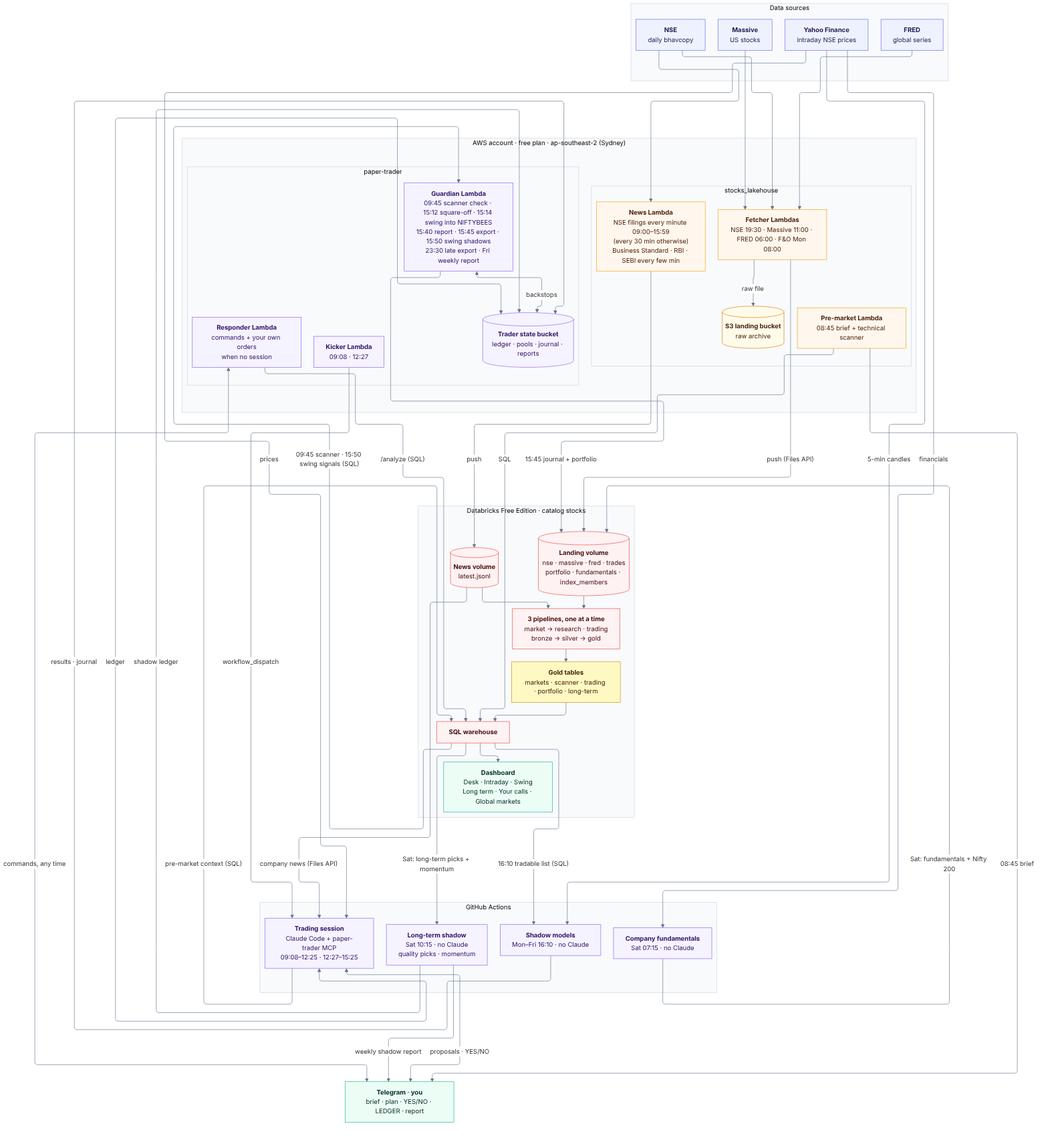
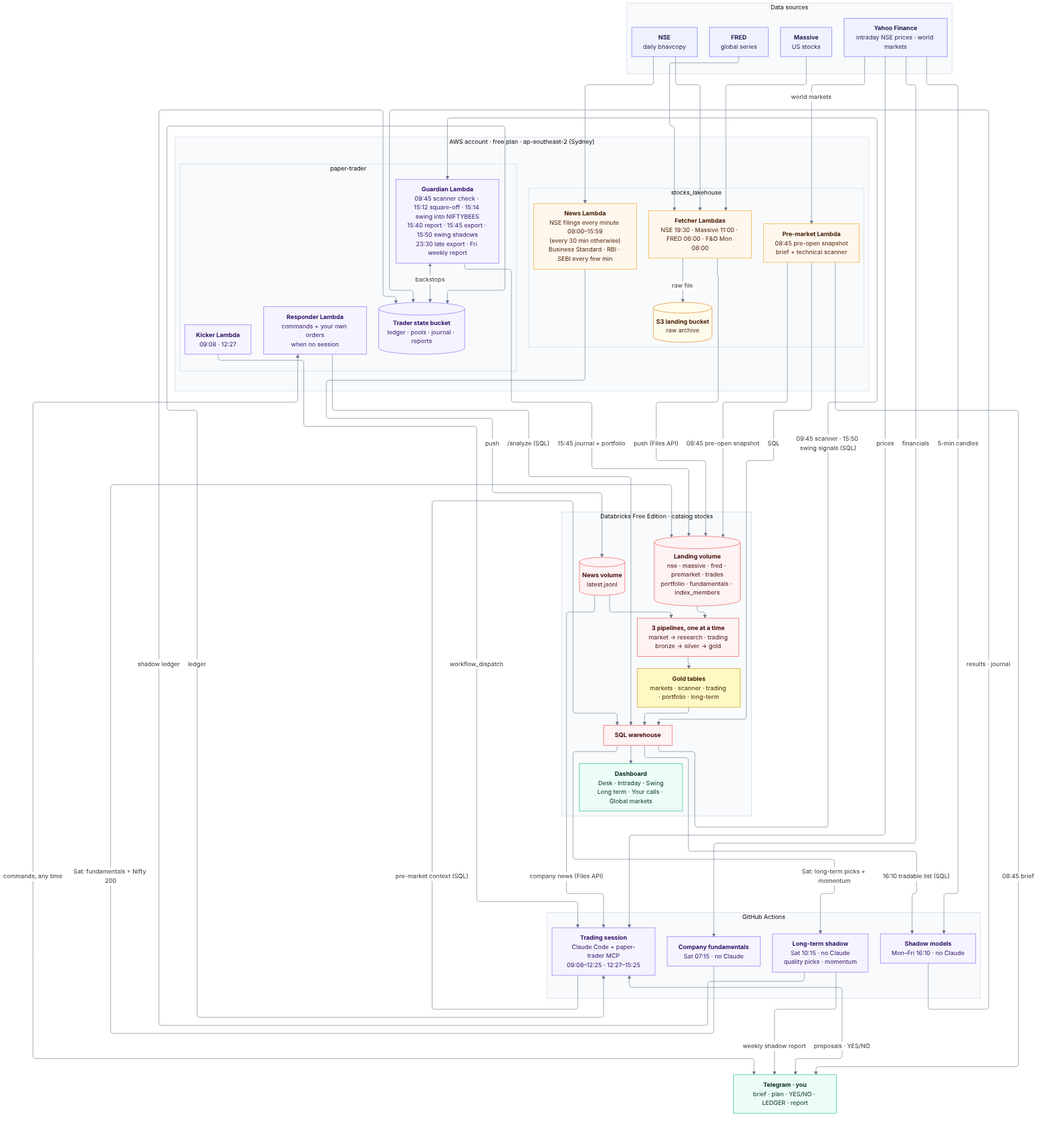
Docs: faster cycles, nearer-target and retest/stretched tests, pre-open snapshot job (#71)
- README, ARCHITECTURE, OPERATIONS: cycles a few seconds after each candle, stops every minute, wake on news,
  cycle settings and the cycle_timing / proposal_timing journal events
- Exit rules on trial: 1.5R target and yesterday's high/low target (ten alternatives); stretched-breakout flag
  and the wait-for-the-retest opening-range test
- PLATFORM and SYSTEM_PLAN (shared): lakehouse stocks-market-preopen job (08:45 Yahoo snapshot), 35 market
  tables, status and roadmap for 19 Nov
- Platform diagram: Yahoo pre-open snapshot into the landing volume (re-rendered)

Claude-Session: https://claude.ai/code/session_0197FuNnVjcj84U5mRG2BBmu

diff --git a/docs/PLATFORM.md b/docs/PLATFORM.md
@@ -3,7 +3,7 @@
 > The shared overview of both repositories. The same file is in
 > [stocks_lakehouse](https://github.com/bumblebee26/stocks_lakehouse/blob/main/docs/PLATFORM.md) and
 > [paper-trader](https://github.com/bumblebee26/paper-trader/blob/main/docs/PLATFORM.md); change both together
-> (only the diagram path differs). As of 17 Nov 2026.
+> (only the diagram path differs). As of 19 Nov 2026.
 
 ## Overview
 
@@ -47,10 +47,11 @@ afternoon. All times IST; every step is scheduled, nothing needs you except the 
 | 08:00 | Mon | Lakehouse | NSE F&O stock list |
 | 06:00 | Tue–Sat | Lakehouse | FRED: indices, FX, VIX, oil, rates (21-day window) |
 | every minute 09:00–15:59; every 30 min 08:00–19:30 otherwise | Mon–Fri | Lakehouse | NSE company news to the news volume (`latest.jsonl`, read by the trader within about a minute); Business Standard markets every 4 min, RBI and SEBI every 5 min |
-| 08:45 | Mon–Fri | Lakehouse | Pre-market brief (India first; global as support, live from Yahoo; sources missing their day left out) and the technical scanner to Telegram |
+| 08:45 | Mon–Fri | Lakehouse | Pre-market brief (India first; global as support, live from Yahoo; sources missing their day left out) and the technical scanner to Telegram. First it saves a pre-open snapshot of 21 world markets from Yahoo to `landing/premarket/` |
+| ~08:50 | Mon–Fri | Lakehouse | The snapshot starts job `stocks-market-preopen`: market pipeline, then the dashboard summaries, so Global markets is current by about 09:00, before NSE opens |
 | 09:08 | Mon–Fri | Trader | Kicker Lambda starts the morning session; plan + focus list to Telegram |
 | 09:16 | Mon–Fri | Trader | GitHub cron backup start (skips if already running) |
-| 09:20–12:25 | Mon–Fri | Trader | Every 5 min: check positions, scan focus list, propose; you tap YES/NO |
+| 09:20–12:25 | Mon–Fri | Trader | Every 5 min, a few seconds after each candle closes: check positions, scan focus list, propose; you tap YES/NO. Between cycles stops and targets are checked every minute, and a fresh filing on a tradable stock starts a cycle at once |
 | 09:45 | Mon–Fri | Trader | Guardian: the scanner's strict picks checked against the first half hour |
 | 11:00 | Tue–Sat | Lakehouse | Massive: previous US session, all US stocks (history only; the free plan releases it ~10:30 IST) |
 | 12:27 | Mon–Fri | Trader | Afternoon session; new entries stop at 14:30 |
@@ -59,7 +60,7 @@ afternoon. All times IST; every step is scheduled, nothing needs you except the 
 | 15:14 | Mon–Fri | Trader | Guardian puts the swing pool's idle cash into NIFTYBEES |
 | 15:45 | Mon–Fri | Trader → Lakehouse | Journal export to `landing/trades/` and portfolio snapshot to `landing/portfolio/`; job `stocks-trading` builds the trading and portfolio tables |
 | 15:50 | Mon–Fri | Trader | Swing shadow tests: news breakouts from `gold.swing_signals`, the scanner's strict picks from `gold.technical_indicators`, and momentum + news from `gold.momentum_ranks` with its concentrated copy (top 3), bought and sold on paper, vs NIFTYBEES; stops and targets on your own swing trades checked |
-| 16:10 | Mon–Fri | Trader (GitHub job) | Shadow models: volatility stop, trade filter, early cut and let winners run, plus stop variants, trained walk-forward on the 5-minute setups of every stock in `gold.intraday_universe`; today's real trades replayed under each (paper only) |
+| 16:10 | Mon–Fri | Trader (GitHub job) | Shadow models: volatility stop, trade filter, early cut and let winners run, plus stop variants, the 1.5R and yesterday's-level targets and skipping stretched breakouts (from 19 Nov), trained walk-forward on the 5-minute setups of every stock in `gold.intraday_universe`; today's real trades replayed under each (paper only) |
 | 17:55 | Fri | Trader | Weekly report to Telegram |
 | 19:30 | Mon–Fri | Lakehouse | NSE bhavcopy and delivery file for the day; job `stocks-market-close` runs the market then research pipelines (including the technical scanner and momentum ranks), then the dashboard's plain-words summaries |
 | 23:30 | Mon–Fri | Trader → Lakehouse | Late export: the last 4 days' journals again, so late events reach the track record overnight |
@@ -81,10 +82,10 @@ there are no servers.
 | S3 landing bucket | lakehouse | AWS S3 | Permanent, untouched raw archive (private, encrypted, versioned) |
 | Sync Lambda | lakehouse | AWS Lambda | Copies anything missing from S3 to the volume (backfills, repairs) |
 | Landing volume | lakehouse | Databricks | `/Volumes/stocks/bronze/landing/<source>/date=…/`, what the pipeline reads |
-| Pipelines `stocks-market`, `stocks-research`, `stocks-trading` | lakehouse | Databricks | Market data in and cleaned (33 tables); the heavy daily research: scanner, momentum ranks (5); paper-trader's journal, portfolio and shadows (23). Bronze streaming tables, silver and gold materialized views. One runs at a time (Free Edition) |
-| Jobs `stocks-market-close`, `stocks-market-morning`, `stocks-market-weekend`, `stocks-trading` | lakehouse | Databricks | When the NSE file lands: market → research; 11:15 Tue–Sat: market only (overnight US prices); Saturday 08:00: market → research; when paper-trader's export lands: trading. Each then runs `sql/dashboard_summary.sql` (plain-words page summaries, `ai_summarize`). Pipeline tasks retry every 15 min if another pipeline is running |
+| Pipelines `stocks-market`, `stocks-research`, `stocks-trading` | lakehouse | Databricks | Market data in and cleaned (35 tables); the heavy daily research: scanner, momentum ranks (5); paper-trader's journal, portfolio and shadows (23). Bronze streaming tables, silver and gold materialized views. One runs at a time (Free Edition) |
+| Jobs `stocks-market-close`, `stocks-market-preopen`, `stocks-market-morning`, `stocks-market-weekend`, `stocks-trading` | lakehouse | Databricks | When the NSE file lands: market → research; when the 08:45 pre-open snapshot lands: market only (world markets before NSE opens); 11:15 Tue–Sat: market only (overnight US prices); Saturday 08:00: market → research; when paper-trader's export lands: trading. Each then runs `sql/dashboard_summary.sql` (plain-words page summaries, `ai_summarize`). Pipeline tasks retry every 15 min if another pipeline is running |
 | Dashboard | lakehouse | Databricks | Pages Desk, Intraday, Swing, Long term (each real pool vs its shadows, with a Show filter), Your calls and Global markets |
-| Pre-market Lambda | lakehouse | AWS Lambda | 08:45: queries gold and a few live Yahoo figures, sends two Telegram messages (the brief, India first, and the technical scanner) |
+| Pre-market Lambda | lakehouse | AWS Lambda | 08:45: saves the pre-open Yahoo snapshot (21 world markets) to the landing bucket and volume, queries gold and a few live Yahoo figures, sends two Telegram messages (the brief, India first, and the technical scanner) |
 | Trading session | paper-trader | GitHub Actions | Claude Code + paper-trader MCP tools; morning and afternoon runs |
 | Trader engine and MCP tools | paper-trader | inside the session | Ledger, risk gate, Telegram approvals, simulated fills, exits, report; your own orders (`/buy`, `/short`, `/swing`, `/longterm`) while a session is live |
 | Trader state bucket | paper-trader | AWS S3 | Ledger, journal, plans, reports, exports |
@@ -106,7 +107,7 @@ portfolio), and two per week on Saturdays (fundamentals and the Nifty 200 list).
 
 | Flow | From → to | Contract | When |
 |---|---|---|---|
-| Market data in | NSE (bhavcopy, delivery, F&O list), Massive, FRED → S3 + volume | One file per source per day under `<source>/date=YYYY-MM-DD/` | 06:00, 11:00, 19:30, Mon 08:00 |
+| Market data in | NSE (bhavcopy, delivery, F&O list), Massive, FRED, the Yahoo pre-open snapshot (`premarket/`) → S3 + volume | One file per source per day under `<source>/date=YYYY-MM-DD/` | 06:00, 08:45, 11:00, 19:30, Mon 08:00 |
 | Pre-market context | gold tables + Yahoo → trader (`premarket_context`) | Read-only SQL on `data_freshness`, `technical_screen`, `nifty_after_us_moves_summary`, `unusual_volume`, `intraday_universe` (news radar, tradable list with company names for the Groww buttons), `track_record`; live India VIX, S&P 500, Nasdaq, Brent, USD/INR and the ADRs from Yahoo, whose Nifty 50 and S&P 500 candles also say which session each source should have | ~09:10 |
 | Company news | news volume `date=YYYY-MM-DD/latest.jsonl` → trader | Read through the Files API (today and the last day), cached 10 min; failure = "news unavailable" | every proposal, `/news` |
 | Approvals | Trader ↔ Telegram | Proposal with YES/NO buttons; no reply in 3 min = skipped; `EXIT SYMBOL` closes | 09:20–14:30 |
@@ -149,7 +150,7 @@ Where each phase of the system plan stands. The full plan (pools, rules, backtes
 
 | Phase | Status | Live parts | Next |
 |---|---|---|---|
-| 1 Intraday upgrades | Live from 10 Nov | 10 trades a day, 4R daily loss limit incl. open risk, weekly brake, cost filter, cool-off after 3 losses, exit rules on trial, realistic costs (STT, fees, GST, stamp), stocks-in-play focus at 09:25, VWAP and sector-strength checks, opening-range test on paper, auto mode (places a trade only if the suggestion is over 55%, raised by 5 for a losing setup, mood, hour, sector or direction and to 60% for flips, the trading agent over 50% and the reviewer answered; 6 trades a day; off at the weekly brake) with a lakehouse track record (real outcomes only from 17 Nov) read every session, 36 stocks in 11 sectors plus a news radar over the Nifty 200 (liquidity guardrails, news-labelled track record), sector and position caps | Track-record review 23 Nov |
+| 1 Intraday upgrades | Live from 10 Nov | 10 trades a day, 4R daily loss limit incl. open risk, weekly brake, cost filter, cool-off after 3 losses, exit rules on trial (from 19 Nov also a 1.5R target and yesterday's high/low as the target), realistic costs (STT, fees, GST, stamp), stocks-in-play focus at 09:25, VWAP and sector-strength checks, opening-range test on paper (from 19 Nov with a wait-for-the-retest version), "stretched" breakouts flagged on paper, cycles a few seconds after each candle with stops checked every minute (from 19 Nov), auto mode (places a trade only if the suggestion is over 55%, raised by 5 for a losing setup, mood, hour, sector or direction and to 60% for flips, the trading agent over 50% and the reviewer answered; 6 trades a day; off at the weekly brake) with a lakehouse track record (real outcomes only from 17 Nov) read every session, 36 stocks in 11 sectors plus a news radar over the Nifty 200 (liquidity guardrails, news-labelled track record), sector and position caps | Track-record review 23 Nov |
 | 2 Foundations | Live | Company news on proposals, market mood, shadow rule variants, `/news` `/portfolio` `/stop`, data alerts, pool ledgers, circuit breaker, weekly report | One-tap reasons, idle-cash interest (later) |
 | 3 Swing pool | Shadow test | Rs 60,000 held in NIFTYBEES (from 10 Nov 15:14); three rule sets on paper: news breakouts (16 Nov), technical scanner (17 Nov), momentum + news (18 Nov) and its concentrated copy (top 3) (`/shadow`) | Shadow review vs NIFTYBEES, mid-Dec |
 | 4 Long-term pool | Shadow mode | Weekly figures for the Nifty 200, quality tests, 10 picks a week, backtest, Saturday shadow report; momentum shadows (top 15, and a concentrated top 5, monthly) from 21 Nov | Go/no-go 18 Dec, live buying from 21 Dec |

diff --git a/docs/SYSTEM_PLAN.md b/docs/SYSTEM_PLAN.md
@@ -4,7 +4,7 @@
 > is in [paper-trader](https://github.com/bumblebee26/paper-trader/blob/main/docs/SYSTEM_PLAN.md) and
 > [stocks_lakehouse](https://github.com/bumblebee26/stocks_lakehouse/blob/main/docs/SYSTEM_PLAN.md); change
 > both together. For how the running system fits together, see [PLATFORM.md](PLATFORM.md).
-> As of 17 Nov 2026. Each section says what is **built** and what is still **planned**.
+> As of 19 Nov 2026. Each section says what is **built** and what is still **planned**.
 
 Everything is dummy money. Nothing here is investment advice; it is a system for learning how these
 strategies behave.
@@ -14,7 +14,7 @@ strategies behave.
 The paper trader is growing from one intraday strategy into a three-pool dummy portfolio of Rs 2,00,000,
 driven by live market data, company news and company financials, with you approving trades on Telegram.
 
-| Phase | Status (17 Nov 2026) | Next gate |
+| Phase | Status (19 Nov 2026) | Next gate |
 |---|---|---|
 | 1 Intraday upgrades | Built, live from 10 Nov | Track-record review, 23 Nov |
 | 2 Foundations (news, pools, alerts) | Built | Cost review, 15 Nov |
@@ -61,14 +61,14 @@ more. From 11 Nov the loss limits are set in "R" (one trade's risk, which follow
 | Weekly brake | none | Week down 8R: half-size trades until Monday |
 | Costs | Rs 20 per order + 0.05% slippage | From 16 Nov, every order also pays STT (0.025% on sells), exchange and SEBI fees, GST and stamp duty (0.003% on buys), as on a contract note: about 0.26% of the position per round trip with slippage |
 | Cost filter | none | No trade whose costs exceed 30% of its risk (in practice a stop of about 0.9% or more) |
-| Exit rules | fixed stop and 2R target | Same, with four alternatives and a day profit lock on trial in the background (reports; decided at a review) |
+| Exit rules | fixed stop and 2R target | Same, with alternatives and a day profit lock on trial in the background (reports; decided at a review); from 19 Nov also a nearer 1.5R target, and yesterday's high (low for a short) as the target when it comes before 2R |
 | Cool-off | none | 30 minutes without new proposals after 3 losses in a row |
 | Watchlist | 16 stocks, mostly banks and IT | 36 stocks across 11 sectors (`trader/sectors.py`) |
 | Focus list each morning | up to 10 | up to 15, at least 6 sectors; from 16 Nov re-ranked at 09:25 by opening relative volume (the first 10 minutes vs the usual), the "stocks in play" |
 | Sector caps | none | 1 open position per sector, 2 trades per sector a day |
 | Position cap | margin limit only | One trade uses at most 30% of the balance as margin |
 | Proposal | numbers | Suggestion % (live checks + trading agent + independent reviewer), plain words, market check, company news; from 16 Nov the live checks also score the VWAP side and strength against the stock's sector |
-| Research tests (paper, from 16 Nov) | none | Background rules "no BUY below VWAP" and "no BUY on a stock weaker than its sector" (mirrored for SELL); opening-range breakout on the top 10 stocks in play with 5- vs 15-minute ranges, 2R target vs held to 15:10. Decided at a review |
+| Research tests (paper, from 16 Nov) | none | Background rules "no BUY below VWAP" and "no BUY on a stock weaker than its sector" (mirrored for SELL); opening-range breakout on the top 10 stocks in play with 5- vs 15-minute ranges, 2R target vs held to 15:10. From 19 Nov: a "wait for the retest" version of that test (buy only if the price comes back to the range edge within 60 minutes), and a "stretched" flag on breakouts that start already far from the day's low (more than 70% of a usual day's range) or more than 1% past VWAP, recorded on each proposal without changing its score. Decided at a review |
 
 ## Phase 2: foundations (built)
 
@@ -238,7 +238,8 @@ judged only by models trained on earlier days:
 | Let winners run | At the 2R target: will running on (stop to +1R, trailing 1R) beat booking it? | Lets that trade run |
 
 They are compared with the current rules and the stop variants (no stop; stops 1.5x and 2x wider with the same
-rupee risk; stop on a 5-minute close), and today's real trades are replayed under each. Results: a Telegram note
+rupee risk; stop on a 5-minute close), from 19 Nov also the 1.5R target, yesterday's high/low as the target and
+skipping stretched breakouts, and today's real trades are replayed under each. Results: a Telegram note
 after the close, `/shadow`, the weekly report, and `models/results/` in S3. **Nothing goes live before a review
 with you, before December**; a model is adopted only if it beats the current rules out of sample, net of costs.
 
@@ -317,7 +318,8 @@ Desk (auto mode, VIX, mood; portfolio vs NIFTYBEES, track record by setup, today
 leaderboard, holdings), Intraday (real vs every exit rule, model and the opening-range test in one chart, with a
 Show filter; daily P&L, by setup and hour, model tests on ~200 stocks), Swing and Long term (real pool vs shadow pools
 vs NIFTYBEES with a Show filter; scanner, momentum ranks, company quality), Your calls (your 👍/👎 vs what happened:
-right %, liked vs disliked results, you vs the trader, by week and setup) and Global markets (today's read written
+right %, liked vs disliked results, you vs the trader, by week and setup) and Global markets (current by about 09:00
+from the 08:45 pre-open snapshot; today's read written
 from the data with fixed rules, world moves, who India's open follows, after-US-moves table, NSE breadth, ADRs). Money pages start at the 18 Nov ledger reset. Ask Genie on the
 dashboard answers questions in plain words.
 
@@ -365,7 +367,8 @@ Cost review: Sun 15 Nov.
 | 15 Nov | Cost review: is Claude usage sustainable? |
 | 16 Nov | News radar (Nifty 200 beyond the watchlist) and the swing shadow pool start; your own trades from Telegram (`/analyze`, `/buy`, `/short`, `/swing`, `/longterm`) |
 | 17 Nov | Technical scanner (08:45 report, 09:45 check, `/screen`, second swing shadow pool); India-first plan with the freshness rule; more news sources; shadow models (16:10 daily); ratings no longer train the system; ledger reset; lakehouse pipeline split in three |
-| 18 Nov | Day 1 after the reset: every pool from its starting cash; momentum + news swing shadow and its concentrated copy start |
+| 18 Nov | Day 1 after the reset: every pool from its starting cash; momentum + news swing shadow and its concentrated copy start; pre-open world-markets snapshot on the dashboard by ~09:00 |
+| 19 Nov | Faster intraday cycles (a few seconds after each candle; stops every minute); on paper: 1.5R and yesterday's-level targets, wait-for-the-retest opening-range entries, stretched-breakout flag |
 | 21 Nov | First long-term momentum shadows (top 15, top 5) |
 | 23 Nov | Track-record review (phase 5), including news vs watchlist picks |
 | ~8 Dec | Scanner signal review (about 15 trading days): `gold.signal_performance` and the scanner shadow pool vs NIFTYBEES |

diff --git a/docs/ARCHITECTURE.md b/docs/ARCHITECTURE.md
@@ -8,7 +8,7 @@
 |---|---|---|
 | **1–2** | Scheduler → kicker → session | At 09:08 and 12:27 IST the kicker starts `trading-session.yml` through the GitHub API. GitHub's own cron (09:16, 12:36) is the backup; a phase runs once per day. |
 | **3** | Session → lakehouse gold | `premarket_context` reads the lakehouse's gold tables over SQL; `start_day` turns them into today's risk and focus list. |
-| **4** | Yahoo → session | 1-minute and 5-minute NSE candles for scanning, fills and exits. |
+| **4** | Yahoo → session | 1-minute and 5-minute NSE candles for scanning, fills and exits. Each cycle starts as soon as Yahoo shows the next 5-minute candle (about 3 s after the close, at most 25 s); while waiting, stops and targets are checked on 1-minute candles every minute. |
 | **5–6** | Session ↔ Telegram | Proposals with YES/NO buttons; your replies and `EXIT SYMBOL` messages come back through long polling. |
 | **7** | Session ↔ state bucket | Every tool call reads and writes the ledger; every event is appended to the day's journal. |
 | **8–9** | Scheduler → guardian ↔ state bucket | 09:45 check of the technical scanner's strict picks; 15:12 square-off and 15:40 report, only if the session didn't; 15:14 swing pool parked in NIFTYBEES; 15:50 swing shadow tests (news breakouts, technical scanner, momentum + news and its concentrated copy) and the stops/targets on your own swing trades; Fri 17:55 weekly report. |
@@ -47,7 +47,7 @@ would have made.
 | **Guardian Lambda** | Runs without Claude. At 09:45 it checks the technical scanner's strict picks against the first half hour. Squares off at 15:12 and sends the report at 15:40 if the session didn't (crash, usage limit, runner failure). At 15:14 it puts the swing pool's idle cash into NIFTYBEES, at 15:45 it exports the day's journal and portfolio snapshot to the lakehouse (again at 23:30 for late ratings), at 15:50 it runs the swing shadow tests (news breakouts, technical scanner, momentum + news and its concentrated copy) and checks the stops and targets on your own swing trades, and on Fridays at 17:55 it sends the weekly report. |
 | **Auto mode and feedback** (`trader/engine.py`) | `/auto on|off`: in auto mode a proposal is placed at once only if the suggestion is over 55%, the trading agent over 50% and the reviewer answered; the bar rises by 5 when the setup, mood, hour, sector or direction has a losing track record, and to 60% for flipping a stock already proposed today. Otherwise it's skipped. 👍/👎 buttons or reactions record your opinion for 7 days (`user_feedback`, shown on the dashboard's "Your calls" page; never used for training from 17 Nov), EXIT closes. 6 trades a day; off at the weekly brake. |
 | **Track record** (`trader/track.py`) | Reads `stocks.gold.track_record` once per session: how past proposals turned out by setup, hour, mood, sector, direction (BUY/SELL), suggestion band, reviewer, mode, news or watchlist and scanner status (real outcomes only), plus the last days' final results (`recent_days`). Shown in every proposal with counts and given to Claude each morning; a losing sector or direction raises auto mode's bar like a losing setup. |
-| **Exit rules on trial** (`trader/exits.py`) | At the day report, each closed trade is replayed on its 1-minute candles under the current exits and eight alternatives (stop to entry at +1R, sell half at +1R, trailing stop, 60-minute time stop, no stop, stop 1.5x/2x wider with the same rupee risk, stop on a 5-minute close), plus a day profit lock. Journaled as `exit_variants` / `profit_lock_shadow`; shown in the day and weekly reports. Changes no real trade. |
+| **Exit rules on trial** (`trader/exits.py`) | At the day report, each closed trade is replayed on its 1-minute candles under the current exits and ten alternatives (stop to entry at +1R, sell half at +1R, trailing stop, 60-minute time stop, no stop, stop 1.5x/2x wider with the same rupee risk, stop on a 5-minute close; from 19 Nov a 1.5R target, and yesterday's high/low as the target when it comes before 2R), plus a day profit lock. Journaled as `exit_variants` / `profit_lock_shadow`; shown in the day and weekly reports. Changes no real trade. |
 | **Pools** (`trader/pools.py`) | Ledgers for the swing (Rs 60,000, held in NIFTYBEES while its rules are on hold) and long-term (Rs 1,00,000) pools, the seven shadow pools (paper copies of a pool's rules, never in the portfolio totals: `swing_shadow`, `swing_tech_shadow`, `swing_mom_shadow`, `swing_mom_conc_shadow`, `long_term_shadow`, `long_term_mom_shadow`, `long_term_mom_conc_shadow`), each with its own holding and sector limits, and the portfolio circuit breaker: all pools 12% below their peak stops new buys until `/resume`. |
 | **Your own trades** (`trader/custom.py`) | `/analyze SYMBOL` (intraday, swing and long-term view, code only, no Claude) and your own orders: `/buy`, `/short` on the intraday ledger, `/swing buy|sell`, `/longterm buy|sell` in the pools. Each order is previewed with costs and warnings and runs only on **Confirm** within 3 minutes, at the live price. Marked custom: intraday ones as setup "Custom", kept out of the trader's track record except under `source`, not counted in its daily allowance but counted in the loss limit. |
 | **Shadow models** (`models/`, `jobs/model_shadow.py`, workflow `model-shadow.yml`, `trader/model_report.py`) | After each close (16:10 IST, GitHub Actions, scikit-learn): 5-minute candles for every tradable stock (Yahoo, cached in S3 under `models/bars5m/` so history grows past Yahoo's 60 days); every scanner setup replayed with its stop, 2R target, costs and 15:10 square-off; four models trained walk-forward (each day predicted only by models trained on earlier days): volatility stop (stop k x the predicted 60-minute range, same rupee risk), trade filter (P(profit after costs)), early cut (at each 5-minute close while losing, P(holding ends worse than cutting)), let winners run (at the 2R target, P(running on beats booking)); compared with the current rules and the stop variants. Today's real trades are scored and replayed too. Results: `models/results/<date>.json` and `history.json`, journal `model_shadow`, a Telegram note, `/shadow`, the weekly report. Nothing changes a trade until reviewed (before December). |

diff --git a/README.md b/README.md
@@ -20,14 +20,14 @@ life of one trade).
 |---|---|
 | 08:45 | Lakehouse pre-market brief (India first: India VIX, the Nifty 50's trend; the US only as support) and the **technical scanner** (Nifty 200 strict picks with indicative levels and a Swing buy button) arrive on Telegram |
 | 09:08 | Kicker starts the **morning session**: Claude reads the lakehouse data (any source missing the day it should have is left out, never replaced by an older day), sends the day plan and focus list |
-| 09:20–12:25 | Every 5 minutes: check positions, scan the focus list (up to 15 names: the 36-stock watchlist plus news-radar picks from the Nifty 200), and any stock with a fresh NSE filing; propose setups |
+| 09:20–12:25 | Every 5 minutes, a few seconds after each candle closes: check positions, scan the focus list (up to 15 names: the 36-stock watchlist plus news-radar picks from the Nifty 200), and any stock with a fresh NSE filing; propose setups. Between cycles stops and targets are checked every minute, and a fresh filing on a tradable stock starts a cycle at once |
 | 09:45 | Scanner check: each strict pick against the first half hour (triggered, in its entry zone, waiting, extended or invalidated) |
 | 12:27 | Afternoon session. New entries stop at 14:30 |
 | 15:10 | Everything squared off, then the day report |
 | 15:12 / 15:40 | Guardian backstops: square-off and report if the session didn't |
 | 15:45 | The day's journal and a portfolio snapshot (all pools and holdings) are copied to the lakehouse; its `stocks-trading` job builds the trading and portfolio tables and dashboard pages |
 | 15:50 | Swing shadow tests: news breakouts, the technical scanner's strict picks (entry at its level the next day, stop, T2 or 15 days), and momentum + news (from 18 Nov: 6 holdings, 2% risk, trailing stop) with its concentrated copy (top 3, 3% risk), bought and sold on paper, compared with NIFTYBEES (`/shadow`); stops and targets on your own swing trades checked |
-| 16:10 | **Shadow models** (GitHub job): the volatility stop, trade filter, early cut and let-winners-run models, plus stop variants (no stop, wider stops, stop on a 5-minute close), trained on 60+ days of every tradable stock's setups and judged walk-forward; today's real trades replayed under each. Paper only, reviewed with you before December |
+| 16:10 | **Shadow models** (GitHub job): the volatility stop, trade filter, early cut and let-winners-run models, plus stop variants (no stop, wider stops, stop on a 5-minute close), nearer targets (1.5R, yesterday's high/low) and skipping "stretched" breakouts, trained on 60+ days of every tradable stock's setups and judged walk-forward; today's real trades replayed under each. Paper only, reviewed with you before December |
 | 23:30 | The last 4 days' journals are copied again, so late events reach the lakehouse |
 
 Money is split into three dummy pools (Rs 2,00,000 in total): **intraday** Rs 40,000 (trading now), **swing**

diff --git a/docs/OPERATIONS.md b/docs/OPERATIONS.md
@@ -66,12 +66,27 @@ proposal with its counts by setup, suggestion band, mood, hour, the stock's sect
 Claude, whose rules allow adjusting its own score only on judged rows.
 
 **Exit rules on trial** (`trader/exits.py`, from 11 Nov; nothing changes real trades): after the close each
-trade is replayed on its 1-minute candles under the current exits and eight alternatives (stop to entry at
+trade is replayed on its 1-minute candles under the current exits and ten alternatives (stop to entry at
 +1R, sell half at +1R, a trailing stop, a 60-minute time stop; from 17 Nov also no stop, the stop 1.5x and 2x
 wider with fewer shares for the same rupee risk, and a stop that counts only on a 5-minute close with a hard
-stop at 2x), plus a day profit lock (once the day is +3R, no
+stop at 2x; from 19 Nov a 1.5R target, and yesterday's high (low for a short) as the target when it sits
+between +0.5R and the planned target), plus a day profit lock (once the day is +3R, no
 new trades if it falls back to half). The day report and the weekly report show how each would have done;
-journal events `exit_variants` and `profit_lock_shadow`. Adopt one only at a review, after 15+ trades.
+journal events `exit_variants` and `profit_lock_shadow`. Adopt one only at a review, after 15+ trades. The two
+new targets also run in the opening-range test and the nightly model backtest, so the review has a larger sample;
+the weekly report compares each rule with the current one on the trades it has a result for.
+
+**Breakouts on trial** (from 19 Nov, paper only): `trader/stretch.py` marks an ORB, PDH or PDL breakout
+"stretched" when the price is already more than 70% of a usual day's range (last 5 sessions) off today's low
+(high for a SELL), or more than 1% past VWAP. It is recorded on the proposal as a background rule (no points)
+and judged in the weekly report; the nightly model backtest also tests skipping them (`skip_stretched`). The
+opening-range test adds a "retest" version: a limit order at the range edge, filled only if the price comes
+back within 60 minutes (a fill and stop-out in the same candle counts as a loss).
+
+**Cycle timing** (from 19 Nov): the settings `WAKE_AFTER_CLOSE_SEC` (3), `CANDLE_WAIT_MAX_SEC` (25),
+`MONITOR_EVERY_SEC` (60) and `SCAN_WORKERS` (4 stocks fetched at a time) set how fast each cycle starts. Journal
+events `cycle_timing` and `proposal_timing` record, in seconds after the candle close, when each cycle and each
+proposal happened (logging only).
 
 **Your own trades** (`trader/custom.py`, from 16 Nov): `/analyze SYMBOL` gives the trader's view of any NSE stock
 (code only, no Claude). `/buy` and `/short` trade on the intraday ledger (defaults: stop 1% away, target 2x the
